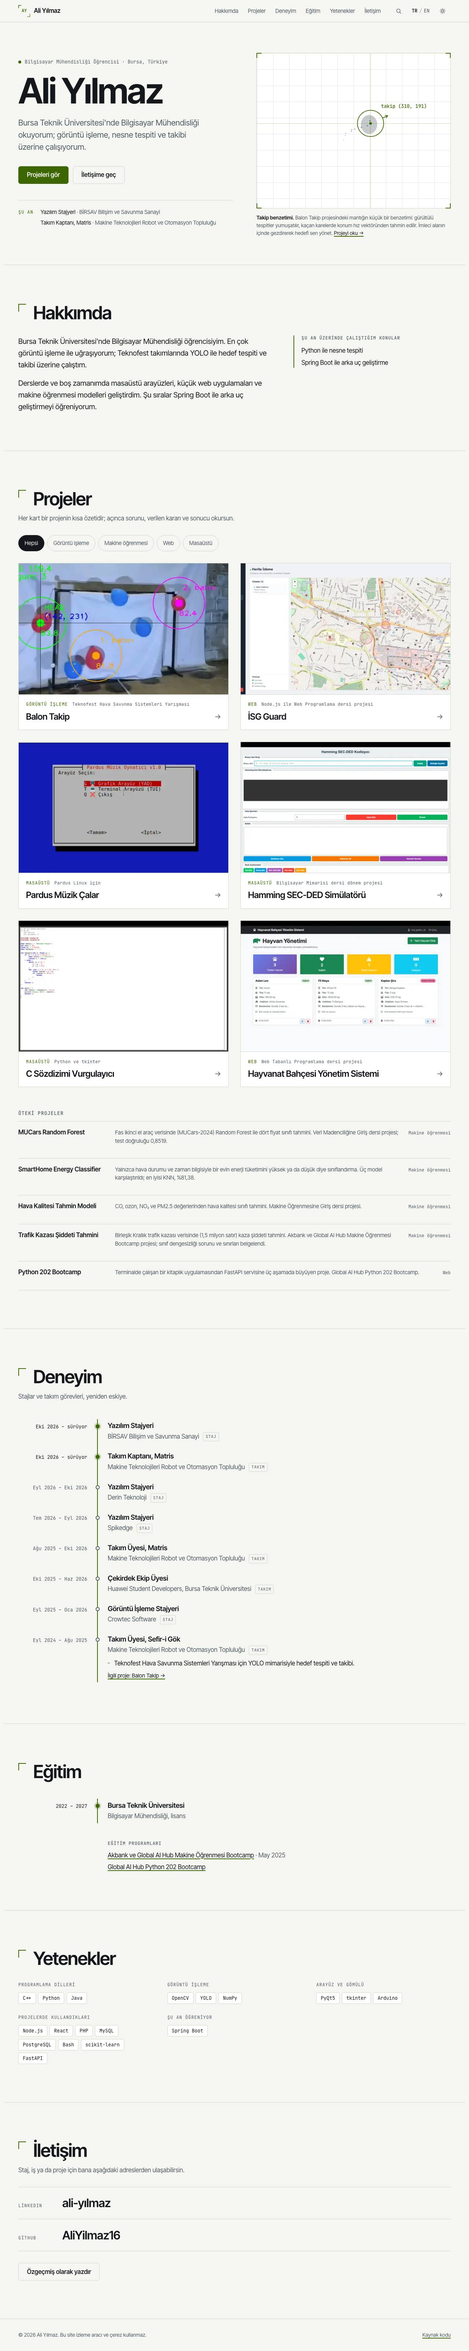
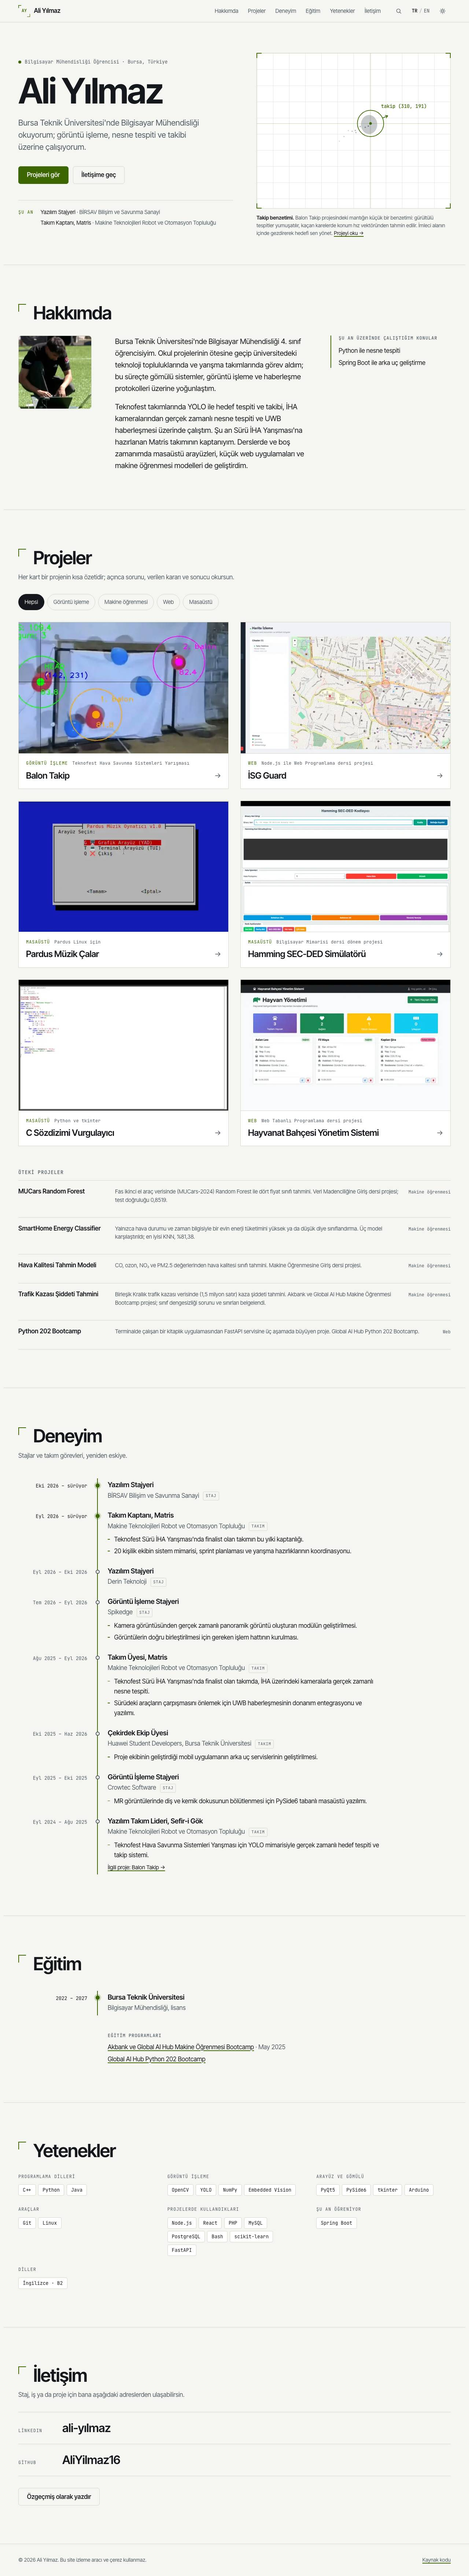
Özgeçmişten deneyim açıklamaları, diller ve fotoğraf
Spikedge, Crowtec, Matris, Huawei ve Sefir-i Gök satırları özgeçmişteki
cümlelerden yazıldı; Hakkımda yazısı profil özetinden derlendi. Kanıt
görselleri yeni içerikle yenilendi.

diff --git a/docs/EKSIKLER.md b/docs/EKSIKLER.md
@@ -6,26 +6,28 @@ Ali'nin doldurması ya da onaylaması gereken alanlar. Hepsi `icerik.yaml` dosya
 
 | Alan | `icerik.yaml` içindeki yeri | Şu anki durum |
 | --- | --- | --- |
-| Dört stajın açıklaması (BİRSAV, Derin Teknoloji, Spikedge, Crowtec) | `deneyim[].maddeler` | Boş. Satırlar kurum, görev ve tarihle görünüyor. En çok üç madde. Kurumun iç işlerine, müşterilerine ya da yayımlanmamış ürünlerine dair ayrıntı yazma. |
-| Matris kaptanlığı, Matris üyeliği, Huawei Student Developers açıklamaları | `deneyim[].maddeler` | Boş, isteğe bağlı. |
-| Fotoğraf | `kisi.fotograf` | Yok. Hakkımda bölümü fotoğrafsız düzenle görünüyor. |
-| E-posta | `kisi.eposta` | Yok. İletişimde yalnızca LinkedIn ve GitHub var. |
-| Özgeçmiş dosyası | `kisi.ozgecmis` | Yok. İndirme düğmesi gizli; "özgeçmiş olarak yazdır" düğmesi çalışıyor. |
-| Beş projedeki rolün | `projeler[].rol` | Yalnızca Balon Takip'te dolu (LinkedIn'deki Sefir-i Gök satırından). isg-guard, Pardus Müzik Çalar, SEC-DED, C Sözdizimi Vurgulayıcı ve Hayvanat Bahçesi'nde tek başına mı takımla mı çalıştığın kaynaklarda yazmıyor. |
+| İki stajın açıklaması (BİRSAV, Derin Teknoloji) | `deneyim[].maddeler` | Boş; özgeçmişte de yoklar. Satırlar kurum, görev ve tarihle görünüyor. En çok üç madde. Kurumun iç işlerine, müşterilerine ya da yayımlanmamış ürünlerine dair ayrıntı yazma. |
+| E-posta | `kisi.eposta` | Yok. Özgeçmişinde yazıyor ama siteye koymak için açık onayın gerekiyor; "ekle" dersen eklenir. İletişimde yalnızca LinkedIn ve GitHub var. |
+| Özgeçmiş dosyası | `kisi.ozgecmis` | Yok. Verdiğin PDF telefon numarası ve ilçe içerdiği için siteye konmadı; bunlar çıkarılmış bir sürüm verirsen indirme düğmesi açılır. "Özgeçmiş olarak yazdır" düğmesi çalışıyor. |
+| Beş projedeki rolün | `projeler[].rol` | Yalnızca Balon Takip'te dolu (özgeçmişteki Sefir-i Gök satırından). isg-guard, Pardus Müzik Çalar, SEC-DED, C Sözdizimi Vurgulayıcı ve Hayvanat Bahçesi'nde tek başına mı takımla mı çalıştığın kaynaklarda yazmıyor. |
 | SEC-DED projesinde verilen önemli karar | `projeler[3].karar` | Boş; README'de bir karar anlatılmıyor. |
-| Konuşulan diller | `diller` | Boş. |
 | Sertifikalar | `programlar` | İki eğitim programı depolardan eklendi. SmartHome-Energy-Classifier deposunda iki sertifika görseli var; siteye konmadı, istersen eklenir. |
 
 ## Okunup onaylanacaklar
 
 | Konu | Not |
 | --- | --- |
-| Hakkımda yazısı | Taslak. Eldeki bilgilerden iki paragraf yazıldı; kendi sözlerinle düzeltmen gerekir. |
+| Hakkımda yazısı | Özgeçmişindeki profil özetinden derlendi; kendi sözlerinle düzeltebilirsin. |
+| Deneyim açıklamaları | Spikedge, Crowtec, Matris, Huawei Student Developers ve Sefir-i Gök satırları özgeçmişindeki cümlelerden yazıldı. Spikedge ve Crowtec satırlarının kurum açısından paylaşılabilir olduğunu sen onayla. |
+| Tarihler | LinkedIn ile özgeçmiş ayrıştığı yerde özgeçmiş esas alındı: Crowtec Eylül-Ekim 2025 (LinkedIn: Ocak 2026'ya kadar), Matris üyeliği Eylül 2026'da bitiyor ve kaptanlık Eylül 2026'da başlıyor (LinkedIn: Ekim). |
+| Sefir-i Gök görevi | "Takım Üyesi" yerine özgeçmişteki "Software Team Lead" (Yazılım Takım Lideri) yazıldı. |
+| LinkedIn adresi | Sitedeki adres ile özgeçmişteki (`linkedin.com/in/alii-yilmazz`) farklı. Sitedeki değiştirilmedi; ikisi de otomatik denetlenemiyor. Hangisi geçerliyse `kisi.linkedin` alanına yaz. |
+| Fotoğraf | Verdiğin kare, yanda duran kişi dışarıda kalacak biçimde kare kırpıldı. |
 | İngilizce metinlerin tamamı | Depo açıklamaları Türkçeydi, çeviriyi ajan yaptı. Okuyup düzelt. |
 | Proje metinleri (sorun, karar, sonuç) | README dosyalarından özetlendi; README'de olmayan başarı ya da ölçüm eklenmedi. Yanlış anlaşılmış bir yer varsa düzelt. |
-| Balon Takip'teki rol cümlesi | LinkedIn'deki tek satırdan yazıldı; takımdaki payını sen bilirsin. |
+| Balon Takip'teki rol cümlesi | Özgeçmişteki tek satırdan yazıldı; takımdaki payını sen bilirsin. |
 | Öne çıkan altı proje ve sırası | Belgedeki varsayılan: Balon Takip ve isg-guard üstte. |
-| Görev adlarının Türkçesi | LinkedIn'de İngilizce yazıyordu (Software Intern, Core Team Member, Team Leader). Türkçeleri: Yazılım Stajyeri, Çekirdek Ekip Üyesi, Takım Kaptanı. |
+| Görev adlarının Türkçesi | Kaynaklarda İngilizce yazıyordu. Türkçeleri: Yazılım Stajyeri, Görüntü İşleme Stajyeri, Çekirdek Ekip Üyesi, Takım Kaptanı, Yazılım Takım Lideri. |
 | Topluluk adının İngilizcesi | "Machine Technologies, Robotics and Automation Society" olarak çevrildi; resmî bir İngilizce adı varsa değiştir. |
 | Bölüm adı | "Bilgisayar Mühendisliği" (LinkedIn tanıtım satırı "Computer Science" diyor). |
 | C Sözdizimi Vurgulayıcı için Medium yazısı | README'de bağlantısı var; adresi e-posta adının ilk kısmını içerdiği için siteye konmadı. İstersen eklenir. |

diff --git a/README.md b/README.md
@@ -101,7 +101,7 @@ Bir staj bittiğinde yalnızca `bitis` satırını eklemen yeter; "sürüyor" bi
 
 ```bash
 npx playwright install chromium firefox webkit   # bir kez
-npm run build && npx astro preview --background  # derle, önizlemeyi arka planda başlat
+npm run build && npx astro preview --background --host 127.0.0.1   # derle, önizlemeyi arka planda başlat
 npm test                                         # D1-D9, D12: üç tarayıcıda
 npx astro preview stop                           # önizlemeyi kapat
 node araclar/lighthouse.mjs                      # D10: sayfa denetimi
